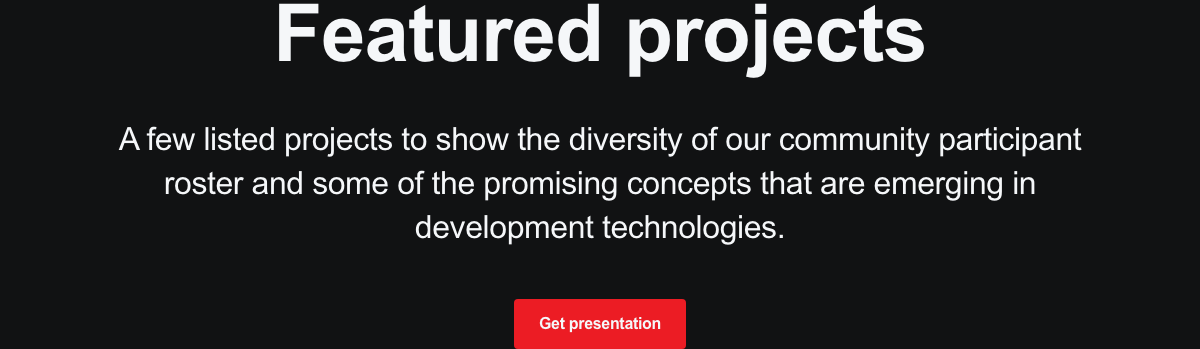
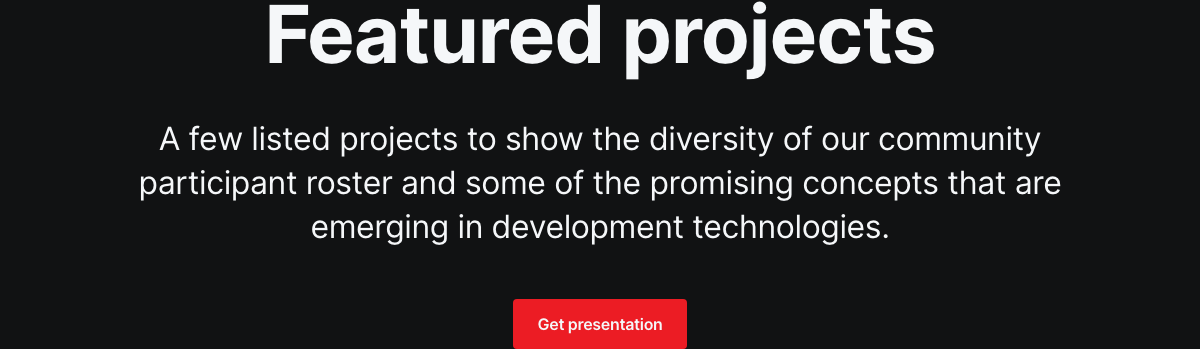
MAR-1599 Updated the config file for Text slice component

diff --git a/.slicemachine/assets/client/prismicSlices/pageParts/TextSlice/index.stories.js b/.slicemachine/assets/client/prismicSlices/pageParts/TextSlice/index.stories.js
@@ -18,7 +18,7 @@ export const _DefaultSlice = () => ({
   },
   data() {
     return {
-      mock: {"variation":"default-slice","name":"Default slice","slice_type":"text_slice","items":[],"primary":{"large":true,"text":"A few listed projects to show the diversity of our community participant roster and some of the promising concepts that are emerging in development technologies.","colorTheme":"white","background":"black","maxWidth":1028},"id":"_DefaultSlice"}
+      mock: {"variation":"default-slice","name":"Default slice","slice_type":"text_slice","items":[],"primary":{"large":false,"text":"A few listed projects to show the diversity of our community participant roster and some of the promising concepts that are emerging in development technologies.","colorTheme":"white","background":"black","maxWidth":"1028px"},"id":"_DefaultSlice"}
     }
   },
   template: '<SliceZone :slices="[mock]" :resolver="resolve" />'
@@ -37,7 +37,7 @@ export const _Title = () => ({
   },
   data() {
     return {
-      mock: {"variation":"title","name":"Title","slice_type":"text_slice","items":[],"primary":{"title":"Featured projects","colorTheme":"white","background":"black"},"id":"_Title"}
+      mock: {"variation":"title","name":"Title","slice_type":"text_slice","items":[],"primary":{"title":"Featured projects","colorTheme":"white","background":"black","maxWidth":"1028px"},"id":"_Title"}
     }
   },
   template: '<SliceZone :slices="[mock]" :resolver="resolve" />'
@@ -56,7 +56,7 @@ export const _TitleText = () => ({
   },
   data() {
     return {
-      mock: {"variation":"titleText","name":"Title + Text","slice_type":"text_slice","items":[],"primary":{"title":"Featured projects","text":"A few listed projects to show the diversity of our community participant roster and some of the promising concepts that are emerging in development technologies.","colorTheme":"white","background":"black"},"id":"_TitleText"}
+      mock: {"variation":"titleText","name":"Title + Text","slice_type":"text_slice","items":[],"primary":{"title":"Featured projects","text":"A few listed projects to show the diversity of our community participant roster and some of the promising concepts that are emerging in development technologies.","colorTheme":"white","background":"black","maxWidth":"1028px"},"id":"_TitleText"}
     }
   },
   template: '<SliceZone :slices="[mock]" :resolver="resolve" />'
@@ -75,7 +75,7 @@ export const _TitleTextButton = () => ({
   },
   data() {
     return {
-      mock: {"variation":"titleTextButton","name":"Title + Text + Button","slice_type":"text_slice","items":[],"primary":{"title":"Featured projects","text":"A few listed projects to show the diversity of our community participant roster and some of the promising concepts that are emerging in development technologies.","buttonText":"Get presentation","buttonLink":{"link_type":"Web","url":"https://maddevs.co/delivery-models.pdf"},"colorTheme":"white","background":"black"},"id":"_TitleTextButton"}
+      mock: {"variation":"titleTextButton","name":"Title + Text + Button","slice_type":"text_slice","items":[],"primary":{"title":"Featured projects","text":"A few listed projects to show the diversity of our community participant roster and some of the promising concepts that are emerging in development technologies.","buttonText":"Get presentation","buttonLink":{"link_type":"Web","url":"https://maddevs.co/delivery-models.pdf"},"colorTheme":"white","background":"black","maxWidth":"1028px"},"id":"_TitleTextButton"}
     }
   },
   template: '<SliceZone :slices="[mock]" :resolver="resolve" />'
@@ -94,7 +94,7 @@ export const _TitleTextList = () => ({
   },
   data() {
     return {
-      mock: {"variation":"titleTextList","name":"Title + Text + List","slice_type":"text_slice","items":[{"listItem":"reintermediate best-of-breed relationships"},{"listItem":"aggregate killer eyeballs"},{"listItem":"architect vertical networks"}],"primary":{"title":"Software <br /> development","text":"A few listed projects to show the diversity of our community participant roster and some of the promising concepts that are emerging in development technologies.","colorTheme":"white","background":"black"},"id":"_TitleTextList"}
+      mock: {"variation":"titleTextList","name":"Title + Text + List","slice_type":"text_slice","items":[{"listItem":"maximize interactive niches"},{"listItem":"deliver interactive partnerships"},{"listItem":"evolve e-business bandwidth"}],"primary":{"title":"Software <br /> development","text":"A few listed projects to show the diversity of our community participant roster and some of the promising concepts that are emerging in development technologies.","colorTheme":"white","background":"black","maxWidth":"1028px"},"id":"_TitleTextList"}
     }
   },
   template: '<SliceZone :slices="[mock]" :resolver="resolve" />'

diff --git a/client/prismicSlices/pageParts/TextSlice/variations/Title.vue b/client/prismicSlices/pageParts/TextSlice/variations/Title.vue
@@ -28,7 +28,6 @@ export default {
 </script>
 
 <style lang="scss" scoped>
-
 .text-slice__content {
   display: flex;
   flex-direction: column;

diff --git a/client/prismicSlices/pageParts/TextSlice/variations/TitleText.vue b/client/prismicSlices/pageParts/TextSlice/variations/TitleText.vue
@@ -35,7 +35,6 @@ export default {
 </script>
 
 <style lang="scss" scoped>
-
 .text-slice__content {
   display: flex;
   flex-direction: column;

diff --git a/client/prismicSlices/pageParts/TextSlice/variations/TitleTextButton.vue b/client/prismicSlices/pageParts/TextSlice/variations/TitleTextButton.vue
@@ -59,7 +59,6 @@ export default {
 </script>
 
 <style lang="scss" scoped>
-
 .text-slice__content {
   display: flex;
   flex-direction: column;

diff --git a/client/prismicSlices/pageParts/TextSlice/variations/TitleTextList.vue b/client/prismicSlices/pageParts/TextSlice/variations/TitleTextList.vue
@@ -62,7 +62,6 @@ export default {
 </script>
 
 <style lang="scss" scoped>
-
 .text-slice__content {
   width: 100%;
   max-width: 1242px;
